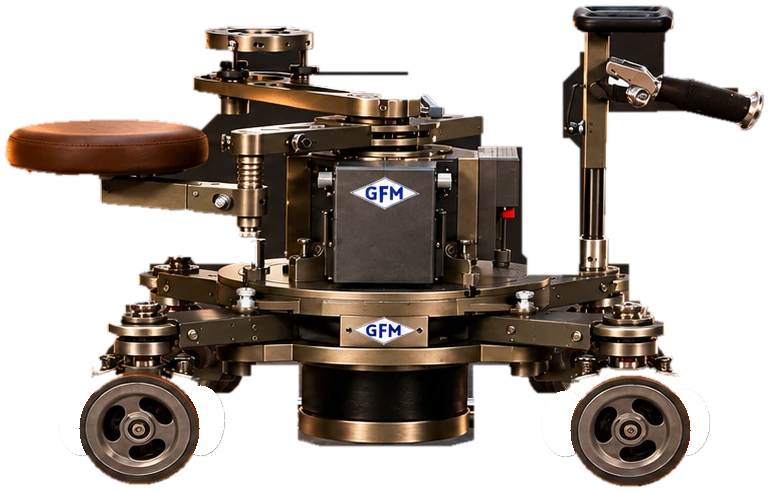
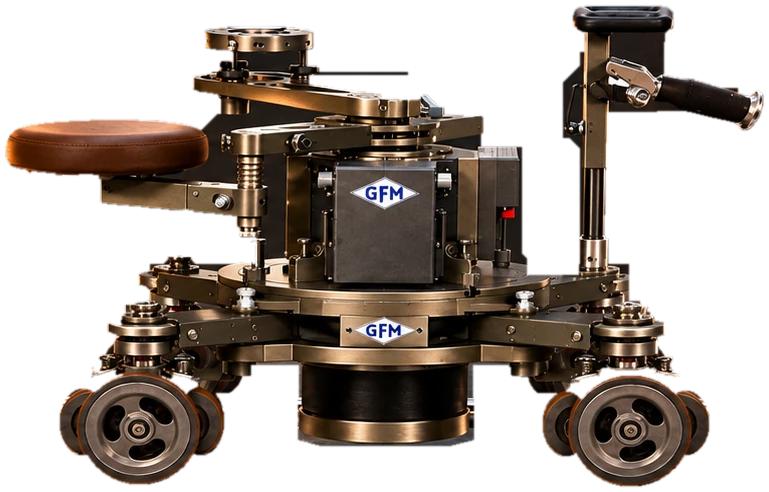
Тележка: маленькие колёса — исходные пиксели фото, вращение показывает блик на ободе
Claude-Session: https://claude.ai/code/session_01ENop3w7Tz4PtimYKG3f7qG

diff --git a/src/components/DollyScene.jsx b/src/components/DollyScene.jsx
@@ -8,8 +8,9 @@ import { gsap, REDUCED_MOTION } from "../lib/motion.js";
  *
  * Всё, что связано с тележкой (корпус, маленькие колёса, тени, отражение, блик на металле), выставляется в одном
  * onUpdate от одного значения x — без задержек и проскальзывания.
- *  - маленькие колёса (стоят на рельсе парой под углом, видны эллипсами): угол = путь / радиус; круг вращается
- *    внутри обёртки со scaleX = a/b. Большие колёса висят над рельсом и не вращаются;
+ *  - маленькие колёса (стоят на рельсе парой под углом, видны эллипсами) остаются исходными пикселями фото;
+ *    вращение показывает блик, бегущий по видимой части обода: угол = путь / радиус, в плоскости колеса
+ *    (обёртка со scaleX = a/b, маска — видимая часть обода). Большие колёса висят над рельсом и не вращаются;
  *  - контактная тень: плотная под колёсами и опорами, мягче и прозрачнее дальше от точек касания;
  *  - направленные тени от двух ламп (силуэт тележки, «положенный» на пол): плотность следует за яркостью лампы
  *    и расстоянием до неё; при разгоне/торможении — едва заметный наклон и изменение плотности;
@@ -33,7 +34,7 @@ export function DollyScene({ alt, className = "" }) {
     const q = (s) => gsap.utils.toArray(s, el);
     const one = (s) => el.querySelector(s);
     const cars = q(".ds__car");
-    const wheels = q(".ds__wheel img");
+    const wheels = q(".ds__glint");
     const sheen = one(".ds__sheen-light");
     const contact = q(".ds__contact");
     const ao = one(".ds__ao");
@@ -176,12 +177,16 @@ export function DollyScene({ alt, className = "" }) {
         <img className="ds__fill ds__shimmer" src={`${SRC}shimmer.webp${v}`} {...img} />
 
         <div className="ds__car">
-          {SCENE.wheels.map((w, i) => (
-            <span key={i} className="ds__wheel" style={{ left: pc(w.cx - w.d / 2), top: pc(w.cy - w.dh / 2), width: pc(w.d), height: pc(w.dh), transform: `scaleX(${w.k})` }}>
-              <img src={`${SRC}wheel-${i}.webp${v}`} {...img} />
-            </span>
-          ))}
           <img className="ds__dolly" style={box} {...dollySrc} width={D.px[0]} height={D.px[1]} {...img} />
+          {/* маленькие колёса — исходные пиксели фото; вращение показывает блик, бегущий по видимой части обода */}
+          {SCENE.wheels.map((w, i) => {
+            const m = `url("${SRC}wheel-${i}.webp${v}")`;
+            return (
+              <span key={i} className="ds__wheel" style={{ left: pc(w.cx - w.d / 2), top: pc(w.cy - w.dh / 2), width: pc(w.d), height: pc(w.dh), transform: `scaleX(${w.k})`, WebkitMaskImage: m, maskImage: m }}>
+                <span className="ds__glint" />
+              </span>
+            );
+          })}
           {/* блик ламп на металле: свет стоит на месте, тележка проезжает сквозь него */}
           <div className="ds__sheen" style={{ ...box, ...silhouette }}>
             <span className="ds__sheen-light" style={{ left: pc(-D.left / D.w), width: pc(1 / D.w) }} />

diff --git a/src/styles/motion.css b/src/styles/motion.css
@@ -373,10 +373,20 @@
   position: absolute;
   display: block;
 }
-.motion__img-wrap .ds__wheel img {
+.ds__wheel {
+  -webkit-mask-size: 100% 100%;
+  mask-size: 100% 100%;
+  -webkit-mask-repeat: no-repeat;
+  mask-repeat: no-repeat;
+  mix-blend-mode: screen;
+}
+/* два мягких тёплых блика на ободе (напротив друг друга), вращаются с колесом */
+.ds__glint {
+  position: absolute;
   inset: 0;
-  width: 100%;
-  height: 100%;
+  border-radius: 50%;
+  background: conic-gradient(from 0deg, transparent 0deg, rgb(255 205 150 / 0.55) 14deg, transparent 34deg, transparent 180deg, rgb(255 205 150 / 0.4) 194deg, transparent 214deg, transparent 360deg);
+  filter: blur(0.6px);
   will-change: transform;
 }
 .ds__sheen {

diff --git a/scripts/build-dolly-scene.py b/scripts/build-dolly-scene.py
@@ -7,8 +7,8 @@
 Выход: public/images/scenes/dolly-scene/
   plate-{1672,1000}.webp — кадр без тележки и её отражения: места, которые открываются при движении, достроены
                            (свет/цвет — из соседних участков кадра, фактура — из присланного фона, рельсы — по их профилю);
-  dolly-{full,half}.webp — тележка из кадра без изменений; на месте маленьких колёс — окна;
-  wheel-{0..3}.webp      — маленькие колёса в их плоскости (круг) для вращения;
+  dolly-{full,half}.webp — тележка из кадра без изменений (колёса — исходные пиксели);
+  wheel-{0..3}.webp      — маска видимой части обода маленького колеса (в плоскости колеса) для бегущего блика;
   shimmer.webp           — блики мокрого пола (из самого кадра);
   haze.webp              — дым (бесшовный по горизонтали);
   scene.json             — геометрия в координатах кадра.
@@ -113,22 +113,11 @@ def main():
         mapy = (c[1] + v).astype(np.float32)
         tex = cv2.remap(A, mapx, mapy, cv2.INTER_LINEAR).astype(np.float32)
         vis = (cv2.remap(window.astype(np.uint8), mapx, mapy, cv2.INTER_NEAREST) > 0) & (rr <= R - 0.5)
-        bins = np.clip(rr.astype(int), 0, R)
-        prof = np.zeros((R + 1, 3), np.float32)
-        have = np.zeros(R + 1, bool)
-        for rb in range(R + 1):
-            sel = vis & (bins == rb)
-            if sel.sum() >= 3:
-                prof[rb] = np.median(tex[sel], axis=0)
-                have[rb] = True
-        idx = np.where(have)[0]
-        for rb in range(R + 1):
-            if not have[rb]:
-                prof[rb] = prof[idx[np.argmin(np.abs(idx - rb))]]
-        fill = prof[bins] + np.random.default_rng(10 + i).normal(0, 2.5, tex.shape)
-        out = np.where(vis[..., None], tex, fill).clip(0, 255).astype(np.uint8)
-        alpha = (np.clip((R - rr) * 1.2 + 0.5, 0, 1) * 255).astype(np.uint8)
-        wheels.append((np.dstack([cv2.cvtColor(out, cv2.COLOR_BGR2RGB), alpha]), c, a, b))
+        ring = vis & (rr >= 0.62 * R)
+        m = cv2.GaussianBlur(ring.astype(np.float32), (0, 0), 1.0)
+        out = np.full((size, size, 3), 255, np.uint8)
+        alpha = (np.clip(m, 0, 1) * 255).astype(np.uint8)
+        wheels.append((np.dstack([out, alpha]), c, a, b))
 
     # 3) чистая подложка
     F = cv2.dilate(dolly.astype(np.uint8), cv2.getStructuringElement(cv2.MORPH_ELLIPSE, (31, 31))) > 0
@@ -175,7 +164,6 @@ def main():
     # 4) слой тележки
     da = (dolly.astype(np.uint8) * 255)
     da = cv2.GaussianBlur(cv2.erode(da, np.ones((2, 2), np.uint8)), (0, 0), 0.8)
-    da[window] = 0
     ys, xs = np.where(da > 4)
     pad = 4
     bx0, bx1, by0, by1 = xs.min() - pad, xs.max() + pad + 1, ys.min() - pad, ys.max() + pad + 1

diff --git a/README.md b/README.md
@@ -122,5 +122,5 @@ React Three Fiber не используется: сцена одна и само
 
 `src/components/DollyScene.jsx` + `scripts/build-dolly-scene.py`. Исходник — присланный кадр `assets-src/dolly-scene/scene.png` (GF-Secondo на рельсах, мокрый пол, лампы, дым); присланный фон без тележки (`plate-background.png`) — только источник фактуры.
 Скрипт разбирает кадр на слои (`public/images/scenes/dolly-scene/`): подложку без тележки (места, которые открываются при движении, достроены: фактура — из присланного фона, свет и цвет — из соседних участков кадра, рельсы — построчно между настоящими рельсами), тележку без изменений (с окнами под маленькие колёса), четыре маленьких колеса в их плоскости, блики пола и дым.
-Как работает: одно значение x (GSAP, sine.inOut, туда-обратно, 9 с в одну сторону) в одном onUpdate двигает тележку, её отражение, тени и блик на металле и поворачивает маленькие колёса на угол путь/радиус (вправо — по часовой, влево — против; скорость вращения следует за скоростью, рассинхрон невозможен — угол считается от позиции, не накапливается). Маленькие колёса стоят под углом, поэтому круг вращается внутри обёртки со `scaleX = a/b`. Большие колёса висят и не вращаются.
+Как работает: одно значение x (GSAP, sine.inOut, туда-обратно, 9 с в одну сторону) в одном onUpdate двигает тележку, её отражение, тени и блик на металле и поворачивает на угол путь/радиус блик на ободе маленьких колёс (вправо — по часовой, влево — против; скорость следует за скоростью, рассинхрон невозможен — угол считается от позиции). Сами колёса — исходные пиксели фото (вращать текстуру нельзя без артефактов: колёса почти закрыты большими); блик идёт в плоскости колеса (`scaleX = a/b`) и обрезан маской видимой части обода. Большие колёса висят и не вращаются.
 Тень: плотная контактная под колёсами и опорами, мягкая под корпусом, и две направленные от ламп (силуэт тележки на полу, плотность — от яркости лампы и расстояния до неё, при разгоне/торможении едва меняется). Блики воды лежат поверх теней и отражения. Независимо живут: блики и рябь воды, отражение, мерцание ламп, дым. Анимация идёт только пока кадр виден; при `prefers-reduced-motion` — неподвижный кадр.
